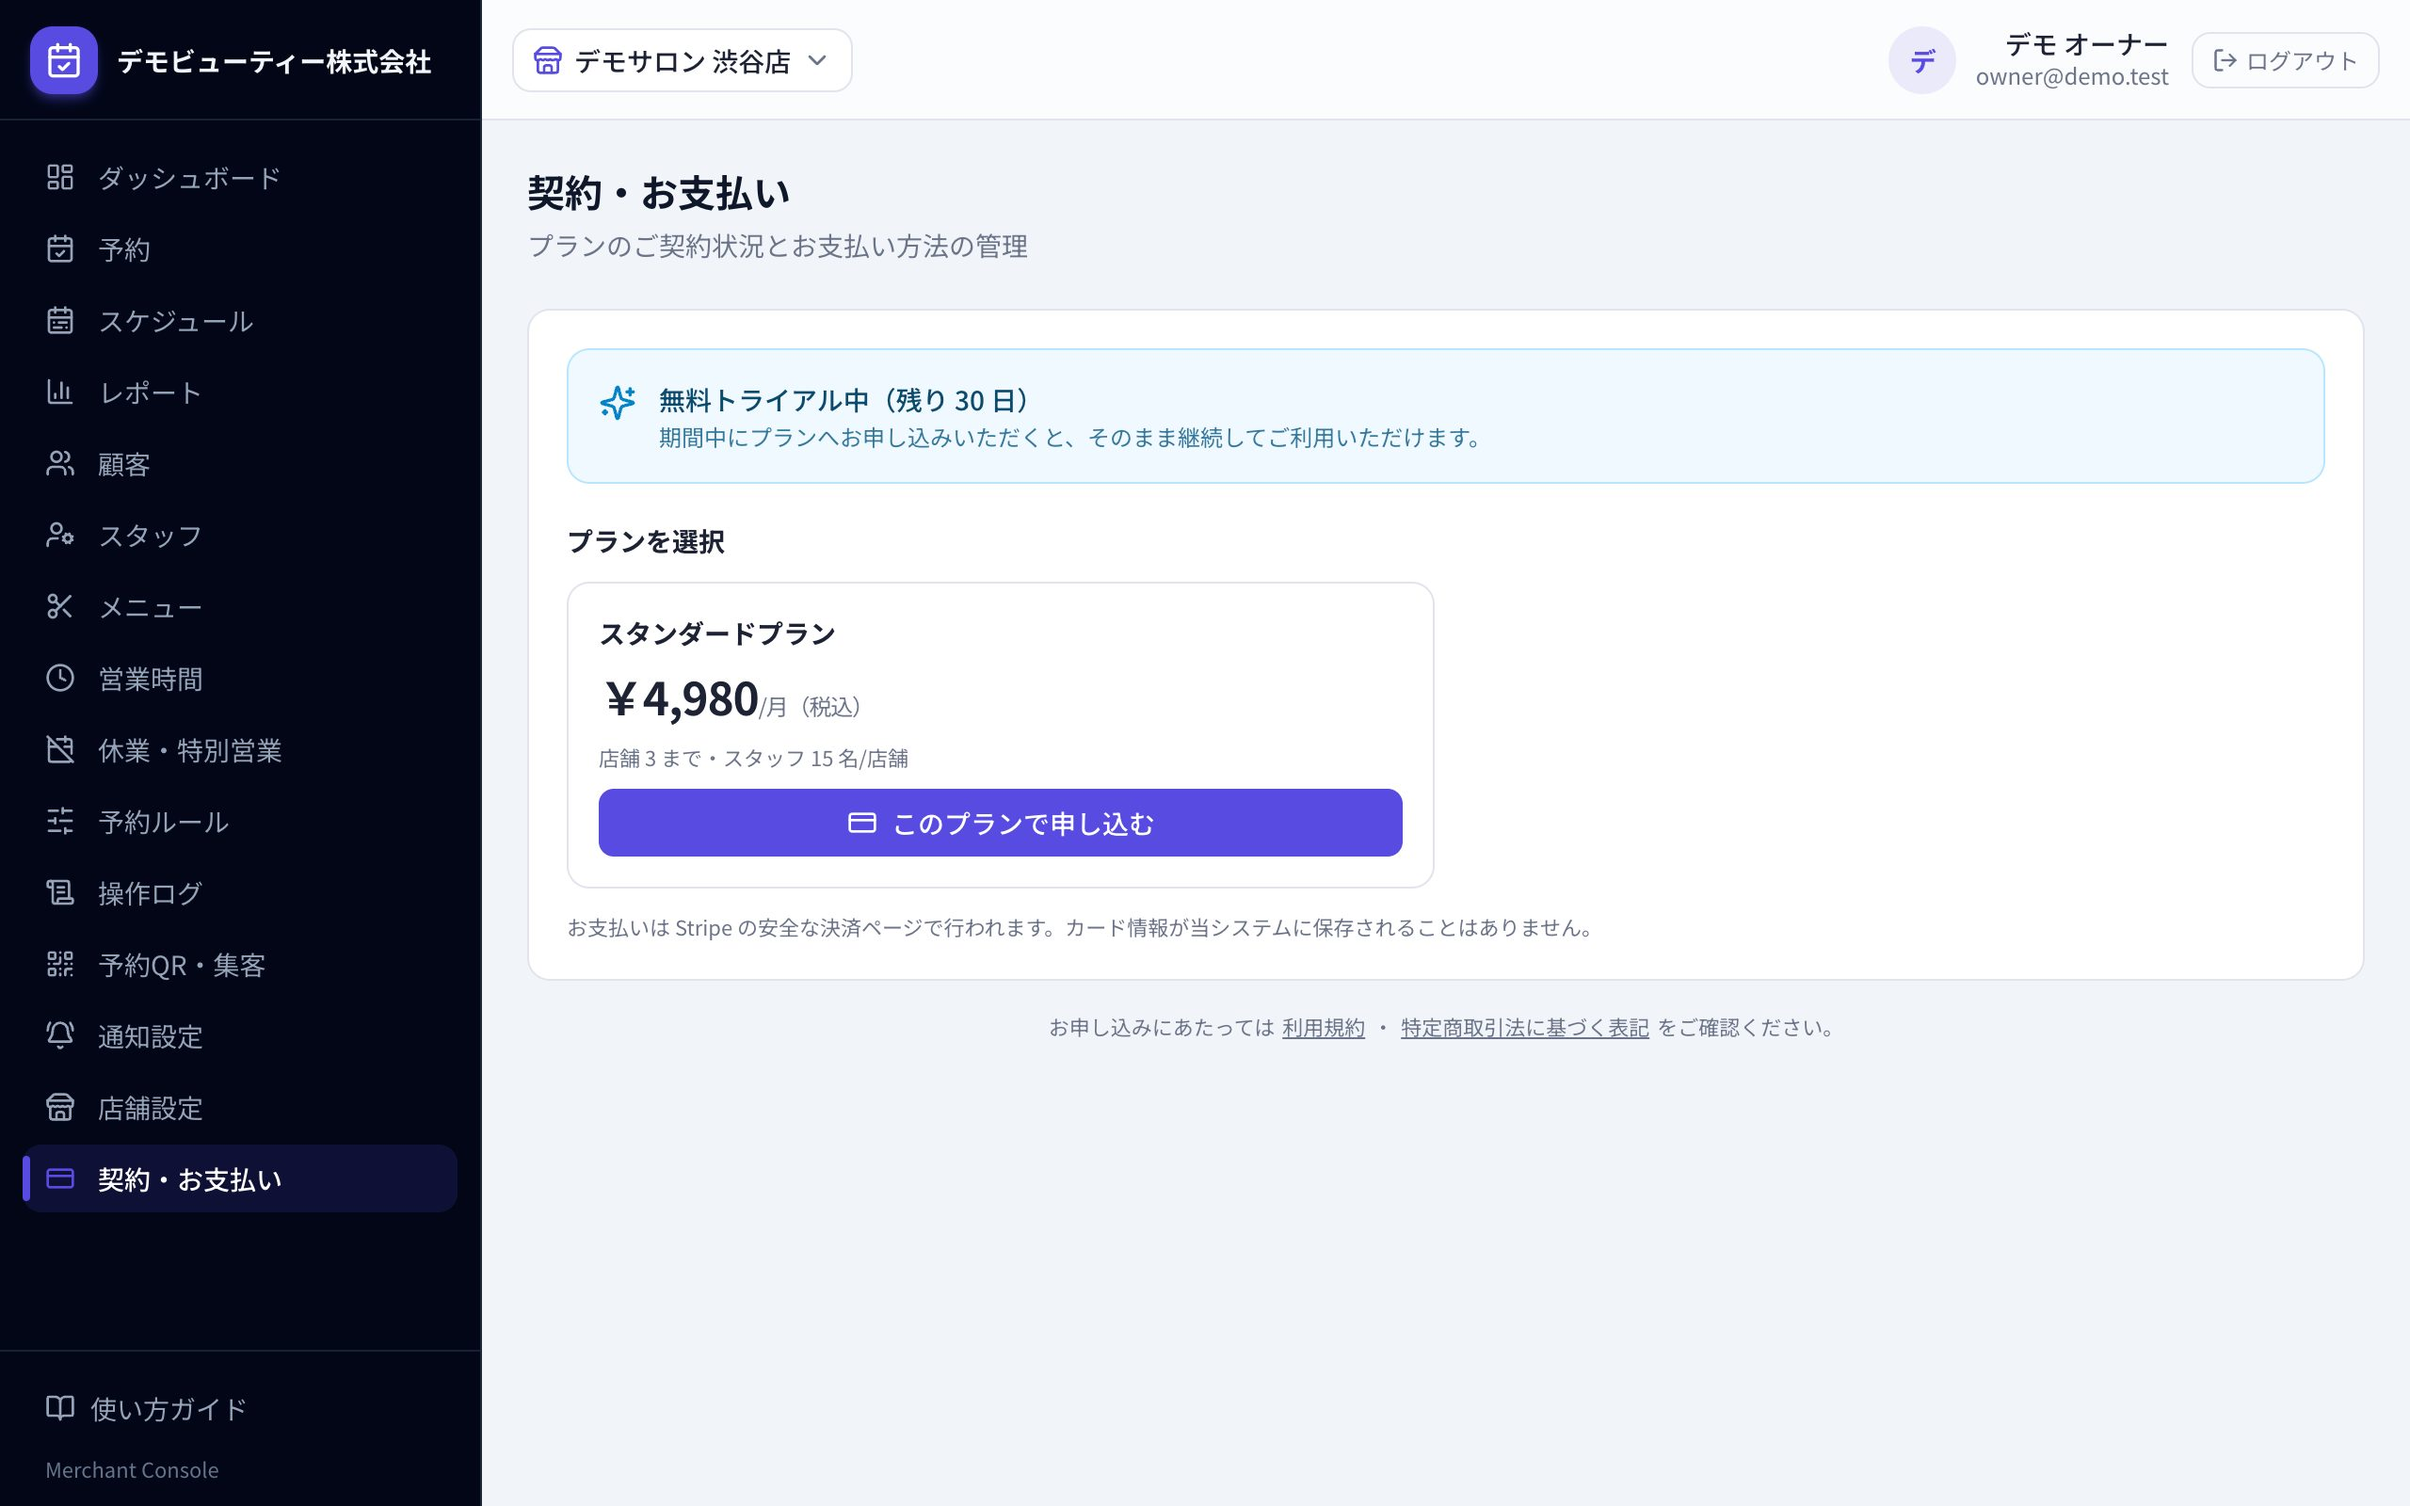
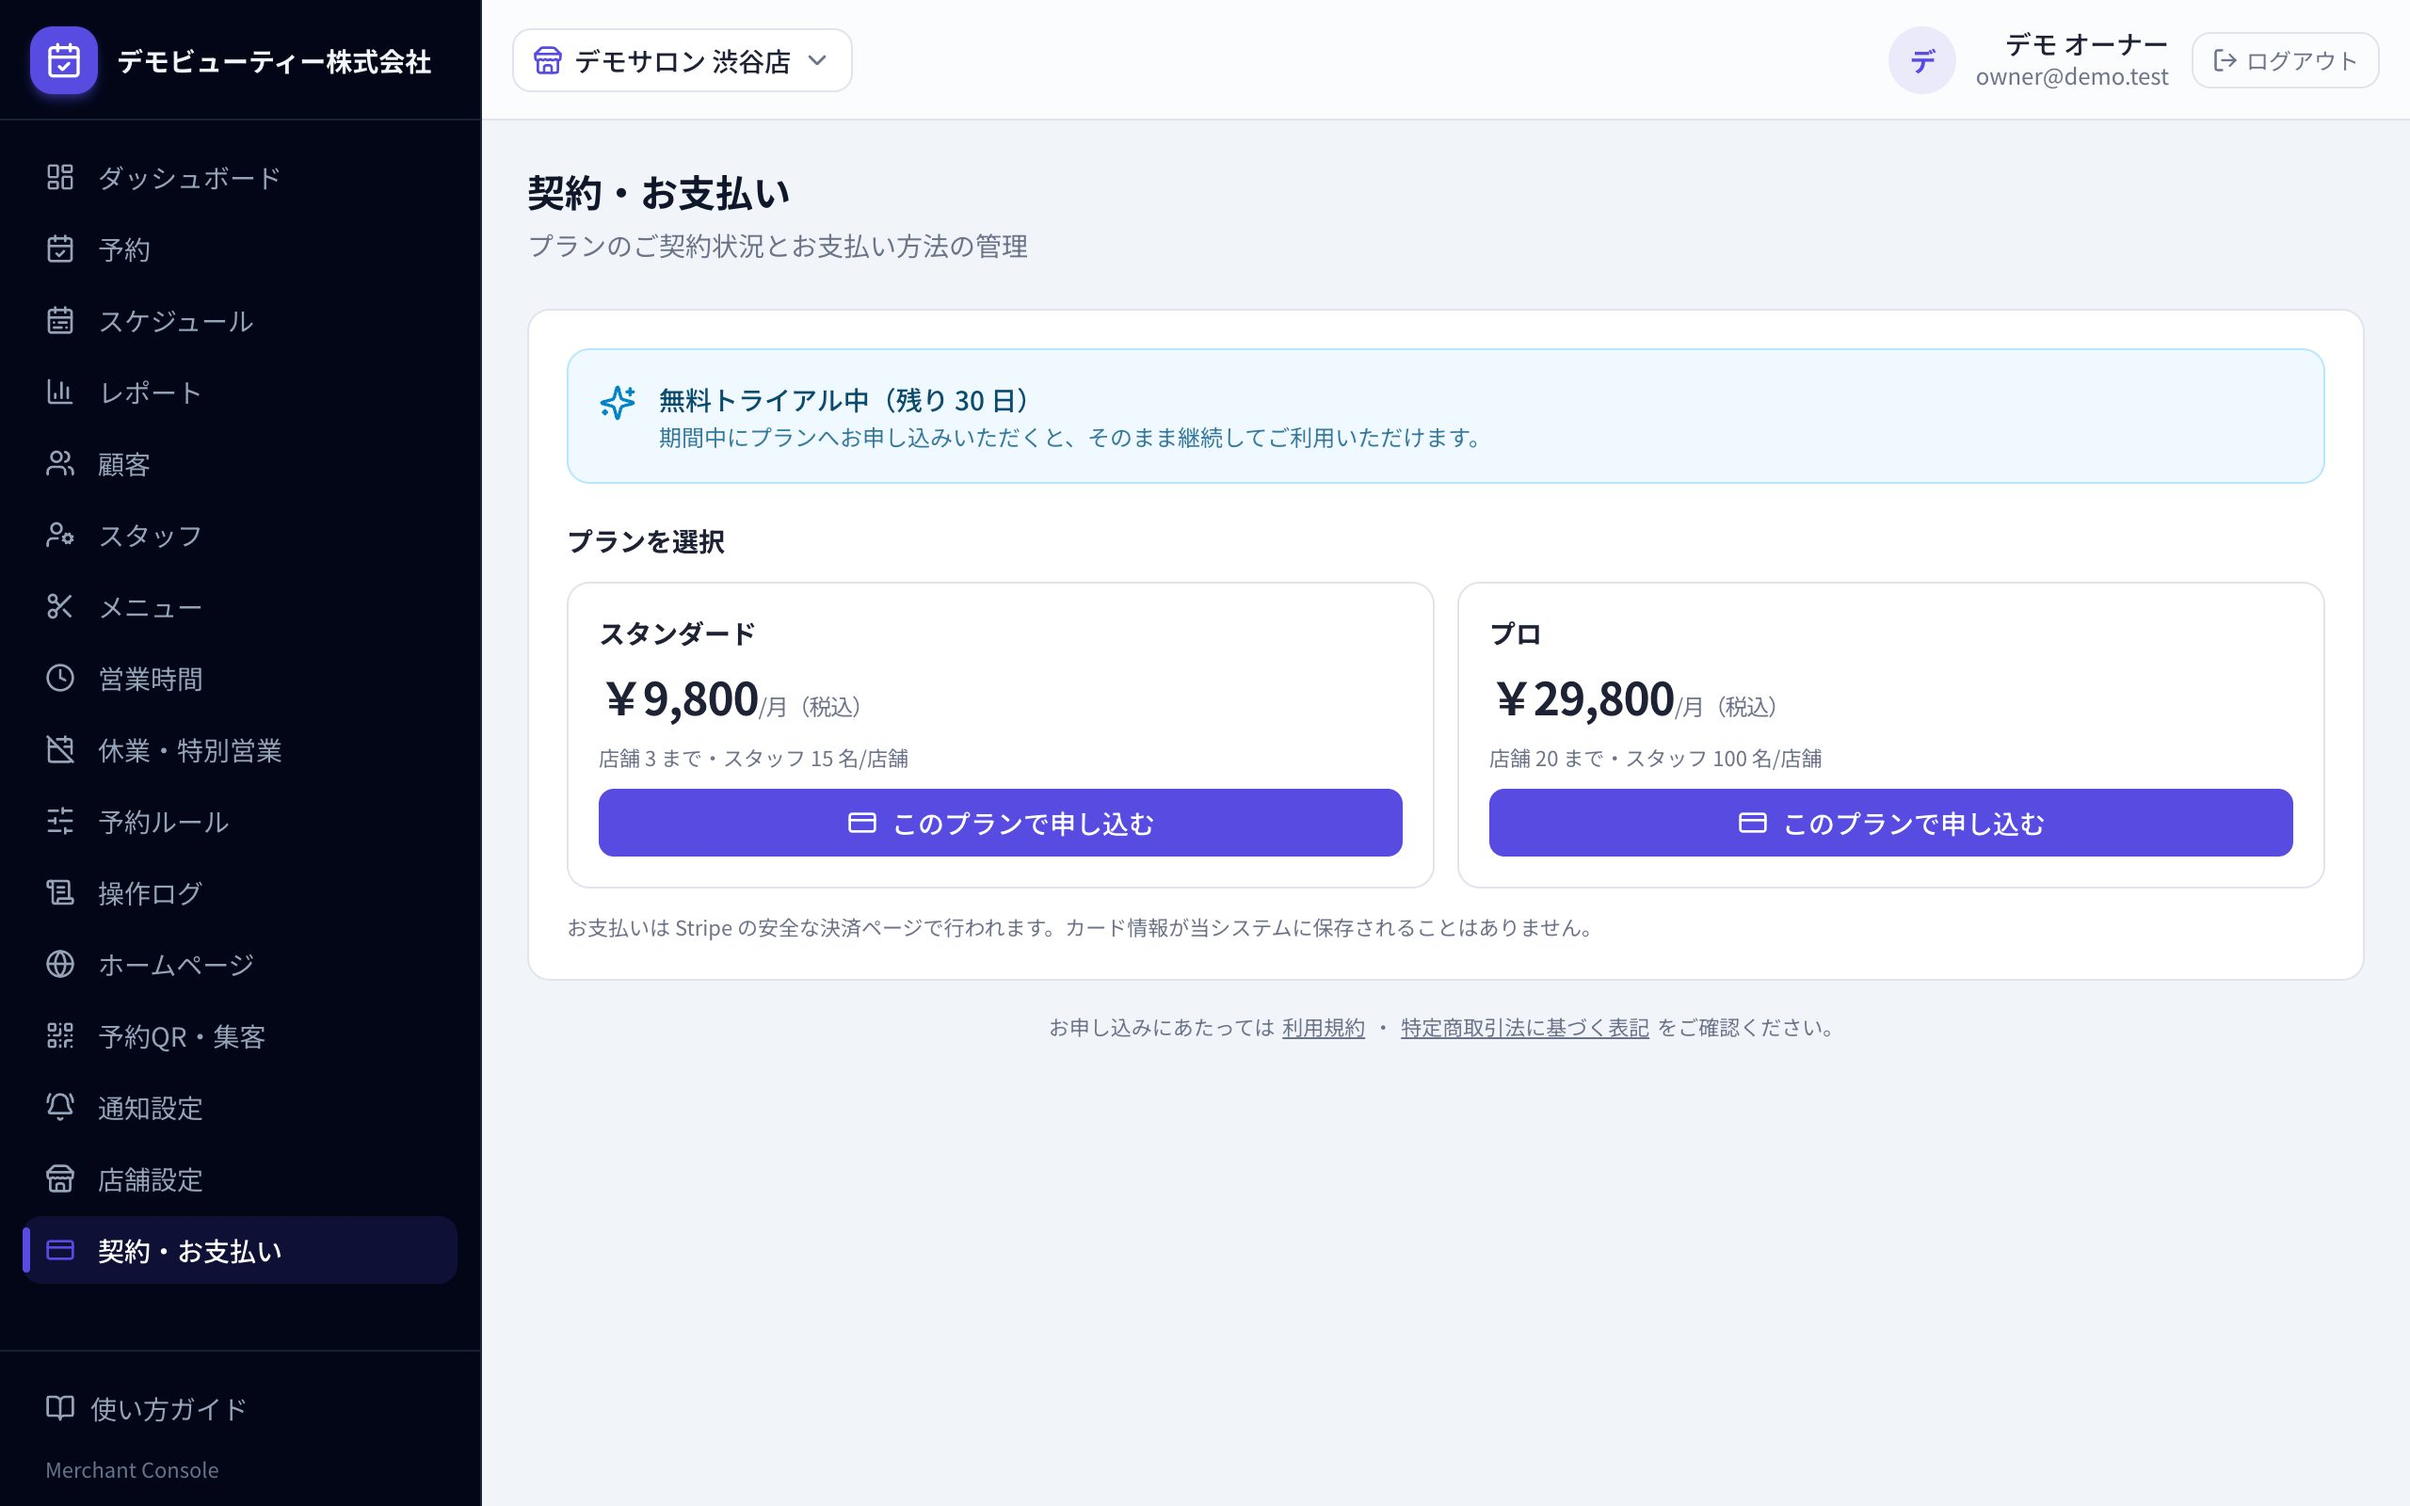
Recapture the billing guide screenshot at the current price
The guide still showed the 4,980 JPY plan card, which contradicts the
9,800 JPY we now charge and advertise -- a shop owner comparing the
guide with the site would catch it.

Recaptured locally rather than against production: the demo tenant there
is on an active test subscription, so the page renders as subscribed
instead of the trial + plan picker the guide needs. Local plan limits
were aligned with production first, which also removed a quota bar that
implied a 3,000 booking cap on a plan that is actually unlimited.

The new shot shows both plans (9,800 / 29,800), matching the corporate
site. Existing pin coordinates still land correctly. Documented the
local recapture procedure in the script.

diff --git a/scripts/capture-guide-screens.ts b/scripts/capture-guide-screens.ts
@@ -48,8 +48,15 @@ async function main() {
     ['/admin/schedule', '11-schedule'],
     ['/admin/customers', '12-customers'],
     ['/admin/reports', '13-reports'],
-    // 17-billing はデモテナントがテスト契約 active のため再撮影しない（トライアル表示の既存画像を維持）。
-    // 撮り直す場合はデモテナントの stripeSubscriptionStatus を一時 NULL にしてから追加すること。
+    // 17-billing はここでは撮らない。本番のデモテナントは契約 active なので「ご契約中」表示になり、
+    // ガイドに必要な「トライアル＋プラン選択」の画面にならないため。
+    // 価格改定などで撮り直すときは**ローカル**で（本番データを触らずに済む）:
+    //   1) .env.local に STRIPE_SECRET_KEY=<ダミー文字列>（isStripeConfigured() を true にするだけ）
+    //   2) ローカルDBのプランへダミー stripePriceId を付与（プランカードの表示条件）＋本番と同じ上限値に揃える
+    //   3) デモテナントを billingExempt=false / stripeSubscriptionStatus=null / trialEndsAt=+30日 に
+    //   4) npm run dev → owner@demo.test でログインし /admin/billing を 1280x800 @2x jpeg q82 で撮影
+    //   5) .env.local とダミー Price ID を消し、デモテナントを billingExempt=true に戻す
+    // ガイドのピン座標（guide-steps.ts の 17-billing）は現行レイアウト前提。カード枚数が変わったら要確認。
   ];
   for (const [path, name] of adminPages) {
     await page.goto(`${BASE}${path}`, { waitUntil: 'networkidle' });
